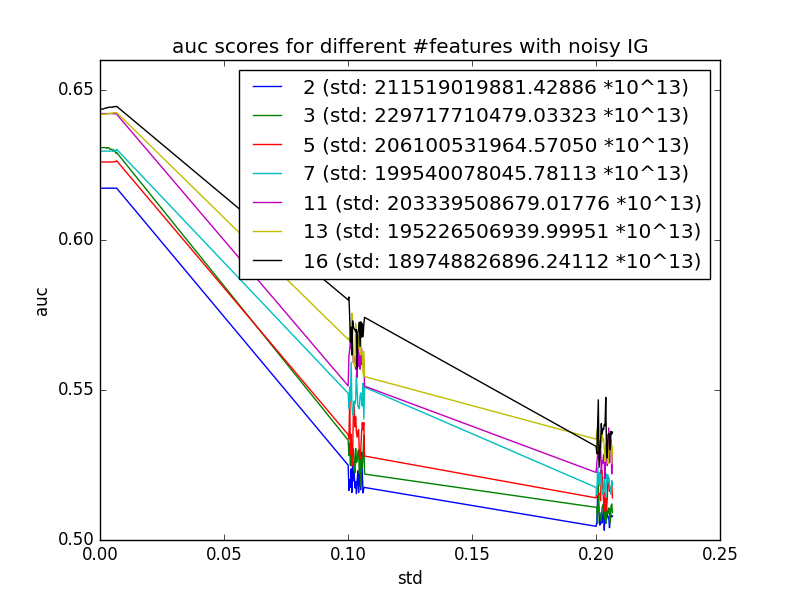
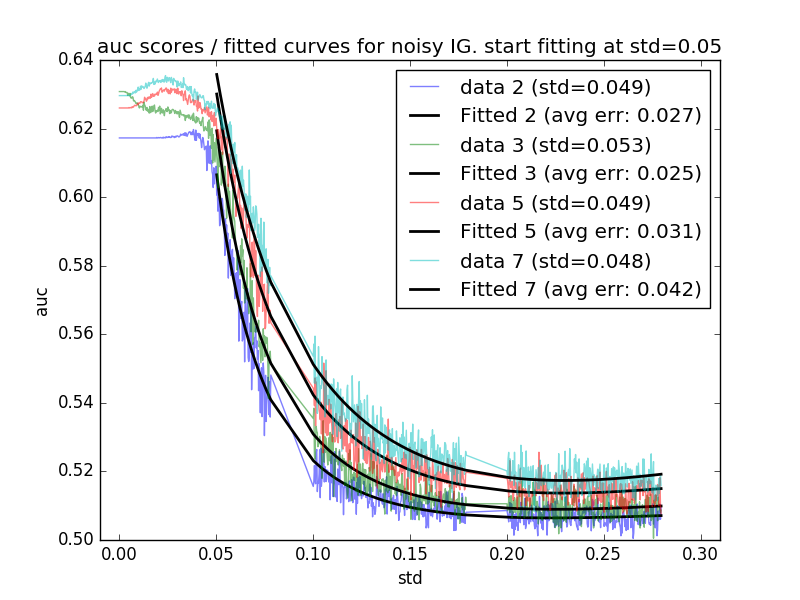
implemented result analysis for std madelon

diff --git a/analysis_madelon.py b/analysis_madelon.py
@@ -4,6 +4,8 @@ import pickle
 
 import pandas as pd
 import sys
+
+from scipy.optimize import curve_fit
 from sklearn.preprocessing import binarize
 import matplotlib.pyplot as plt
 from CSFSLoader import CSFSLoader
@@ -16,10 +18,11 @@ import re
 Example starting command:
 python3 analysis_madelon.py 0.000026416 0.00005
 """
+def get_result_data(n_features):
+    """
 
-
-
-def std_analysis():
+    :return: {no_features: {std: auc},...} e.g. {16: {0.200036667: 0.53119531952662713, 0.105176567: 0.57273262130177505
+    """
     path = 'pickle-dumps/madelon/std_samples'
     files = [f for f in os.listdir(path) if os.path.isfile(os.path.join(path,f))]
 
@@ -35,21 +38,105 @@ def std_analysis():
             results[no_features] = dict()
 
         results[no_features][std] = (np.mean(pickle.load(open(os.path.join(path,f), 'rb'))['best_noisy']))
+    if n_features:
+        results = {r:results[r] for r in n_features}
+    return results
 
-    legend_str = []
-    for no_f in sorted(results):
-        sorted_keys = sorted(results[no_f])
-        plt.plot(sorted_keys, [results[no_f][key] for key in sorted_keys])
-        aucs_only = list(results[no_f].values())
-        legend_str.append('{} (std: {:.5f})'.format(no_f, np.std(aucs_only)))
-    # plt.legend([no_f for no_f in sorted(results)])
-    plt.legend(legend_str, loc=1)
-    plt.title('auc scores for different #features with noisy IG')
+def extract_x_y(result, n_features, start_lim=0):
+    """
+    extracts x and y from results for a certain n_features
+    :param result:
+    :param n_features:
+    :return: x,y where x: std and y:auc
+    """
+    if n_features not in result.keys():
+        print('{} not found'.format(n_features))
+        return None
+    x = sorted([std for std in result[n_features].keys() if std > start_lim])
+    y = [result[n_features][std] for std in x]
+
+    return np.array(x, dtype=float), np.array(y, dtype=float)
+
+def visualize_result():
+    dataset_name = "madelon"
+    target = 'target'
+    N_features = [2,3,5,7]#,11,13,16]
+    N_samples = 100
+    results = get_result_data(N_features)
+    plt.hold(True)
+    start_lim = 0.05
+    params = dict()
+
+    def func(x,  w1, p1, w2, p2):
+        return w1 * pow(x, p1) + w2 * pow(x, p2)
+
+    for n_f in N_features:
+        print('== no of features: {}'.format(n_f))
+        x,y = extract_x_y(results, n_f, start_lim=0)
+        std = np.std(y)
+        plt.plot(x, y, alpha=0.5, label='data {} (std={:.3f})'.format(n_f, std))
+        x,y = extract_x_y(results, n_f, start_lim=start_lim)
+        popt, pcov = curve_fit(func, x, y)
+        params[n_f] = popt
+        perr = np.sqrt(np.diag(pcov))
+        avg_err = np.mean(perr)
+        print('params: {} '.format(popt))
+        print('errors: {}'.format(perr))
+        print('avg error: {}'.format(avg_err))
+
+        plt.plot(x, func(x, *popt), '-k', linewidth=2, label="Fitted {} (avg err: {:.3f})".format(n_f, avg_err))
+
+    plt.legend(loc=1)
+    plt.title('auc scores / fitted curves for noisy IG. start fitting at std={}'.format(start_lim))
+    plt.xlim([-.01, 0.31])
     plt.xlabel('std')
     plt.ylabel('auc')
     fig1 = plt.gcf()
     plt.show()
     fig1.savefig('plots/madelon/std_result.png', dpi=100)
+
+# def fit_exp_curve(n_features):
+#     results = get_result_data([n_features])
+#     x,y = extract_x_y(results, n_features, start_lim=0.05)
+#     # print(x,y)
+#
+#
+#     def func(x, w1, p1, w2, p2, w3, p3):
+#         return w1 * pow(x, p1) + w2 * pow(x, p2) + w3 * pow(x, p3)
+#
+#     def func(x,  w1, p1, w2, p2):
+#         return w1 * pow(x, p1) + w2 * pow(x, p2)
+#     print('starting to fit curve')
+#     popt, pcov = curve_fit(func, x, y)
+#     perr = np.sqrt(np.diag(pcov))
+#     print('parameters: {} '.format(popt))
+#     print('err: {}'.format(perr))
+#     plt.hold(True)
+#     plot_result(results, show=False)
+#     plt.plot(x, func(x, *popt), 'y-', linewidth=2, label="Fitted curve")
+#
+#     plt.show()
+#
+
+#
+#
+# def plot_result(results, show=True):
+#     # results = get_result_data()
+#     legend_str = []
+#     for no_f in sorted(results):
+#         sorted_keys = sorted(results[no_f])
+#         plt.plot(sorted_keys, [results[no_f][key] for key in sorted_keys],'o')
+#         aucs_only = list(results[no_f].values())
+#         legend_str.append('{} (std: {:.5f})'.format(no_f, np.std(aucs_only)))
+#     # plt.legend([no_f for no_f in sorted(results)])
+#     plt.legend(legend_str, loc=1)
+#     plt.title('auc scores for different #features with noisy IG')
+#     plt.xlabel('std')
+#     plt.ylabel('auc')
+#     fig1 = plt.gcf()
+#     if show:
+#         plt.show()
+#     fig1.savefig('plots/madelon/std_result.png', dpi=100)
 
 # def analysis2_fix():
 #     try:
@@ -147,6 +234,7 @@ def preprocess(data):
     return data
 
 if __name__ == "__main__":
-    analysis2()
-    # std_analysis()
+    visualize_result()
+    # analysis2()
+    # plot_result()
     # analysis2_fix()
